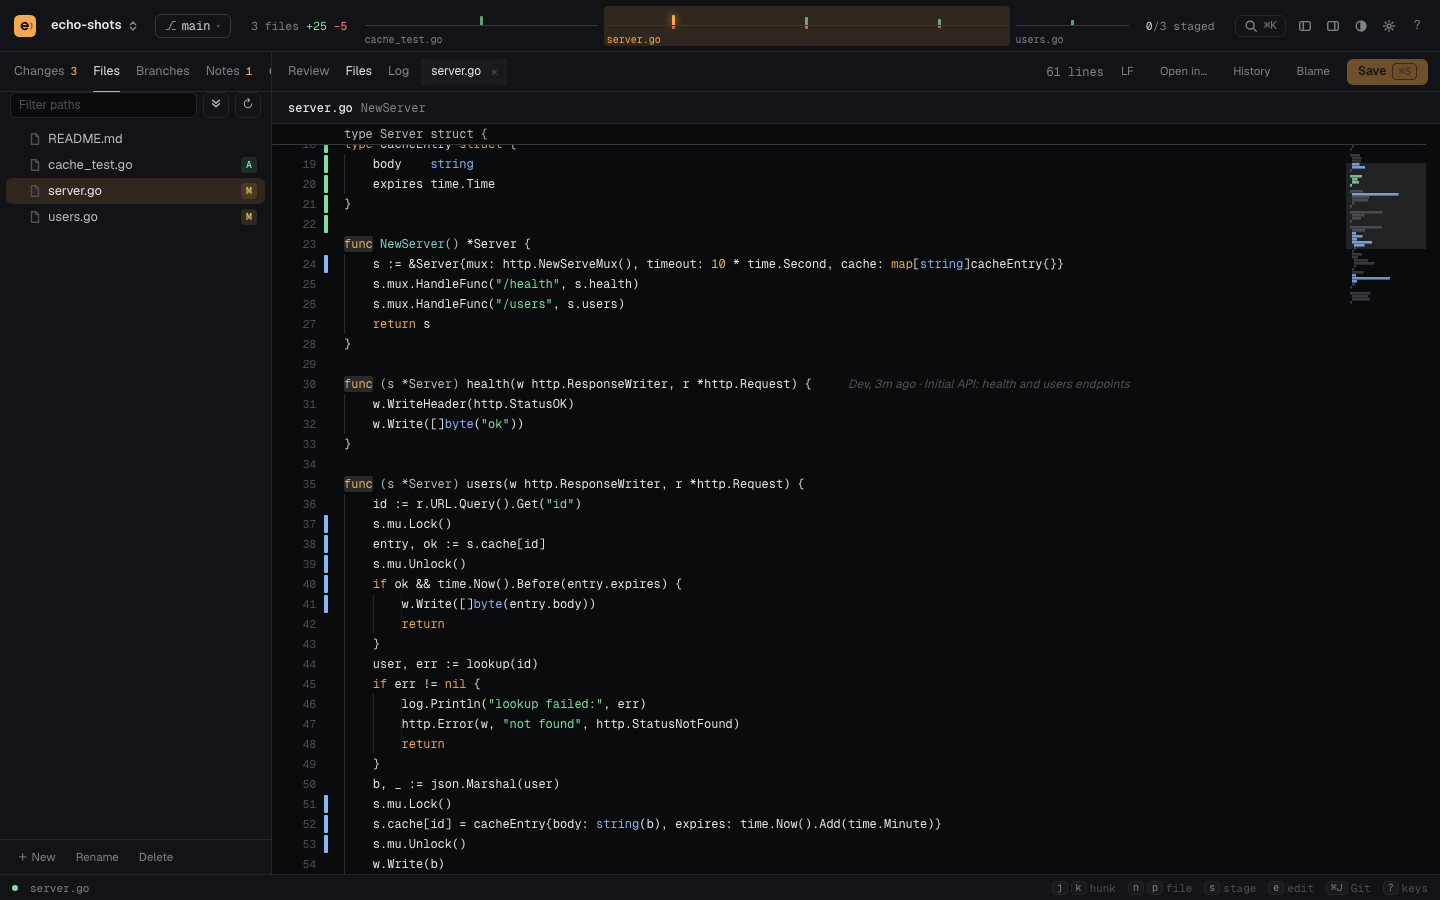
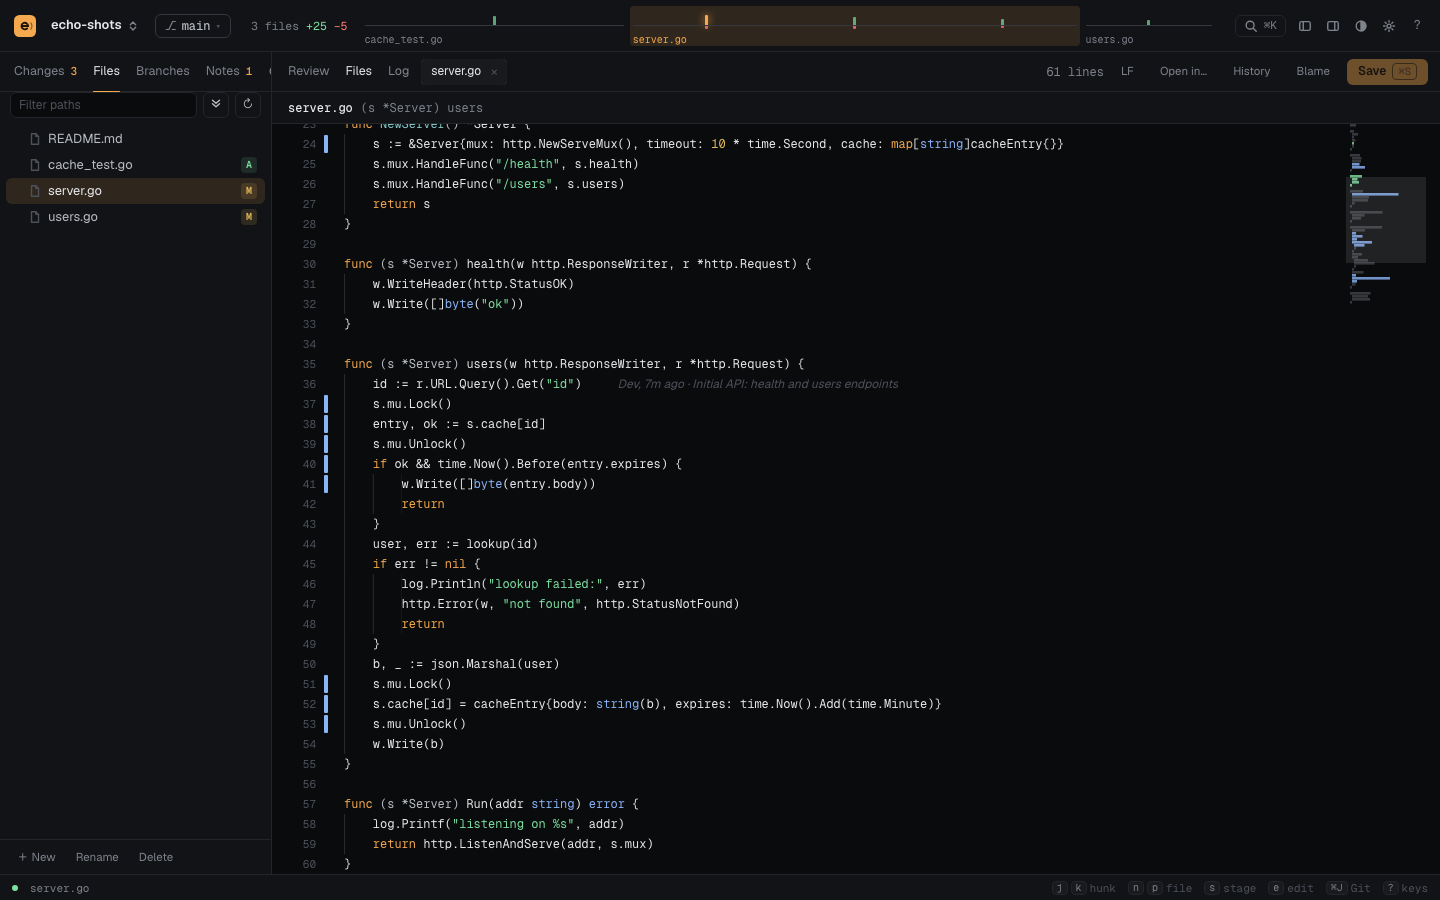
fix(ui): log filters behind a Filters row, git panel header fit; refreshed screenshots

diff --git a/web/index.html b/web/index.html
@@ -130,9 +130,7 @@
         <select id="log-ref" class="field" title="Which history to show"><option value="all">All branches</option><option value="HEAD">Current branch</option></select>
         <input id="log-author" class="field log-f" placeholder="Author" autocomplete="off" spellcheck="false">
         <input id="log-path" class="field log-f" placeholder="Path" autocomplete="off" spellcheck="false">
-        <input id="log-since" class="field log-f" type="date" title="Commits after this date" aria-label="Since">
-        <input id="log-until" class="field log-f" type="date" title="Commits before this date" aria-label="Until">
-        <select id="log-merges" class="field" title="Merge commits" aria-label="Merge commits"><option value="">All commits</option><option value="no">No merges</option><option value="only">Merges only</option></select>
+        <button id="log-more" class="btn quiet sm" title="Dates and merge commits" aria-expanded="false">Filters <span id="log-more-n" class="count"></span></button>
         <span id="log-summary" class="summary"></span>
       </div>
       <div id="file-bar" class="bar-group" hidden>
@@ -159,6 +157,12 @@
       <button id="diff-collapse" class="btn quiet sm" title="Collapse or expand every file">Collapse all</button>
       <span class="grow"></span>
       <span class="faint fb-keys"><kbd>a</kbd> accept <kbd>x</kbd> reject <kbd>c</kbd> note <kbd>[</kbd><kbd>]</kbd> next undecided</span>
+    </div>
+    <div id="log-extra" class="filterbar" hidden>
+      <label class="faint">Since <input id="log-since" class="field" type="date" aria-label="Since"></label>
+      <label class="faint">Until <input id="log-until" class="field" type="date" aria-label="Until"></label>
+      <select id="log-merges" class="field" title="Merge commits" aria-label="Merge commits"><option value="">All commits</option><option value="no">No merges</option><option value="only">Merges only</option></select>
+      <button id="log-clear" class="btn quiet sm">Clear filters</button>
     </div>
     <div id="file-crumb" class="crumb" hidden><span id="file-path" class="file-path"></span><span id="crumb-sym" class="crumb-sym"></span></div>
     <div id="banner" class="banner" hidden></div>

diff --git a/web/app.js b/web/app.js
@@ -1869,6 +1869,7 @@ function setMode(m) {
   document.querySelectorAll('.mode-switch button').forEach(b => b.classList.toggle('on', b.dataset.mode === m))
   $('#diff-bar').hidden = m !== 'diff'
   $('#diff-filterbar').hidden = m !== 'diff'
+  $('#log-extra').hidden = m !== 'log' || $('#log-more').getAttribute('aria-expanded') !== 'true'
   $('#file-bar').hidden = m !== 'file'
   $('#log-bar').hidden = m !== 'log'
   $('#log').classList.toggle('active', m === 'log')
@@ -2263,6 +2264,7 @@ async function loadLog(append = false) {
       return renderLog()
     }
     L.groups = null
+    $('#log-more-n').textContent = logFilterCount() || ''
     const data = await api('/api/history?' + params)
     if (seq !== L.seq) return
     L.commits = append ? L.commits.concat(data.commits) : data.commits
@@ -3227,6 +3229,13 @@ $('#log-rows').addEventListener('scroll', () => {
   const v = $('#log-rows'), L = state.log
   if (L.more && !L.loading && v.scrollTop + v.clientHeight > v.scrollHeight - 600) loadLog(true)
 })
+$('#log-more').onclick = () => {
+  const open = $('#log-more').getAttribute('aria-expanded') !== 'true'
+  $('#log-more').setAttribute('aria-expanded', open)
+  $('#log-extra').hidden = !open
+}
+$('#log-clear').onclick = () => { for (const id of ['#log-since', '#log-until', '#log-merges']) $(id).value = ''; loadLog() }
+const logFilterCount = () => ['#log-since', '#log-until', '#log-merges'].filter(id => $(id).value).length
 let logTimer
 for (const id of ['#log-q', '#log-author', '#log-path', '#log-since', '#log-until', '#log-merges']) $(id).addEventListener('input', () => { clearTimeout(logTimer); logTimer = setTimeout(() => loadLog(), 250) })
 $('#log-ref').onchange = () => { loadLog(); renderBranches() }

diff --git a/web/style.css b/web/style.css
@@ -1192,3 +1192,6 @@ label.set-row { cursor: pointer; }
 .pitem.cmd i { margin-left: auto; }
 .pitem kbd { margin-left: 8px; }
 .recent-tag { margin-left: auto; font: 10px var(--mono); color: var(--faint); text-transform: uppercase; letter-spacing: .06em; font-style: normal; }
+#staged-count { white-space: nowrap; overflow: hidden; text-overflow: ellipsis; min-width: 0; font-size: 11px; }
+#log-extra label { display: inline-flex; align-items: center; gap: 6px; font-size: 12px; }
+#log-extra .field { height: 24px; }
